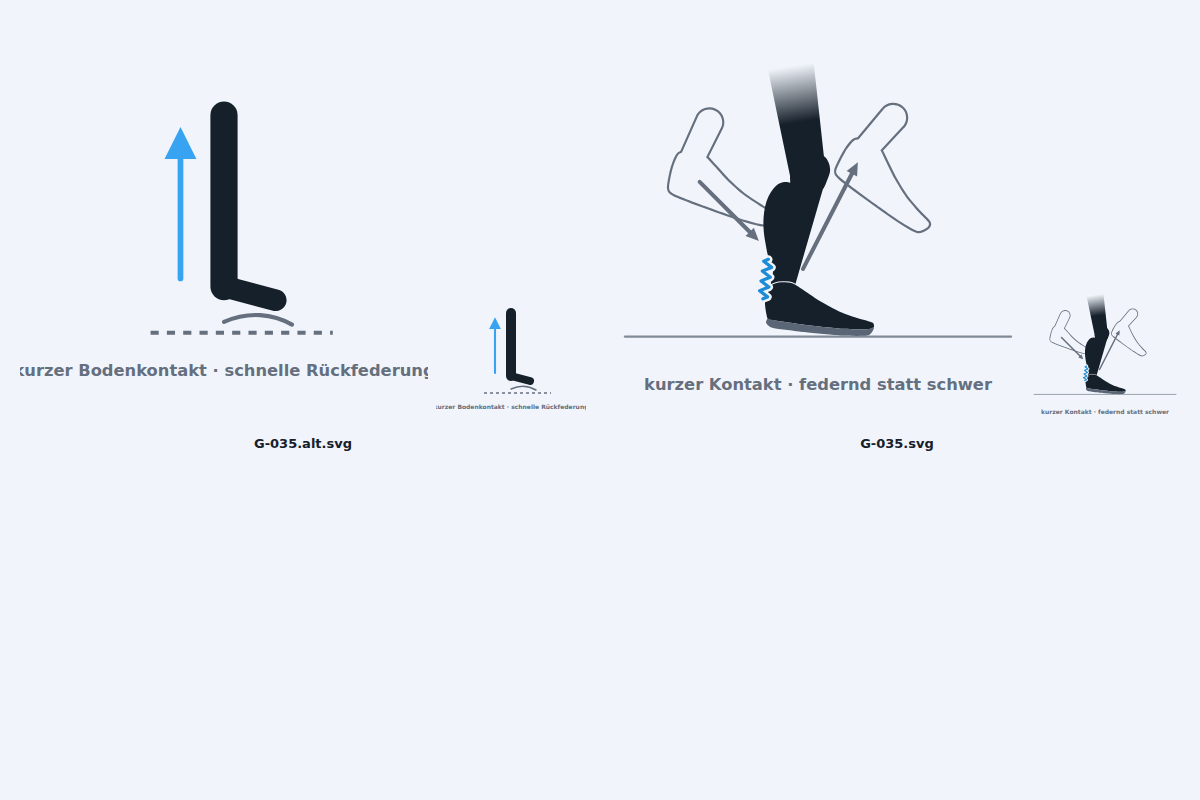
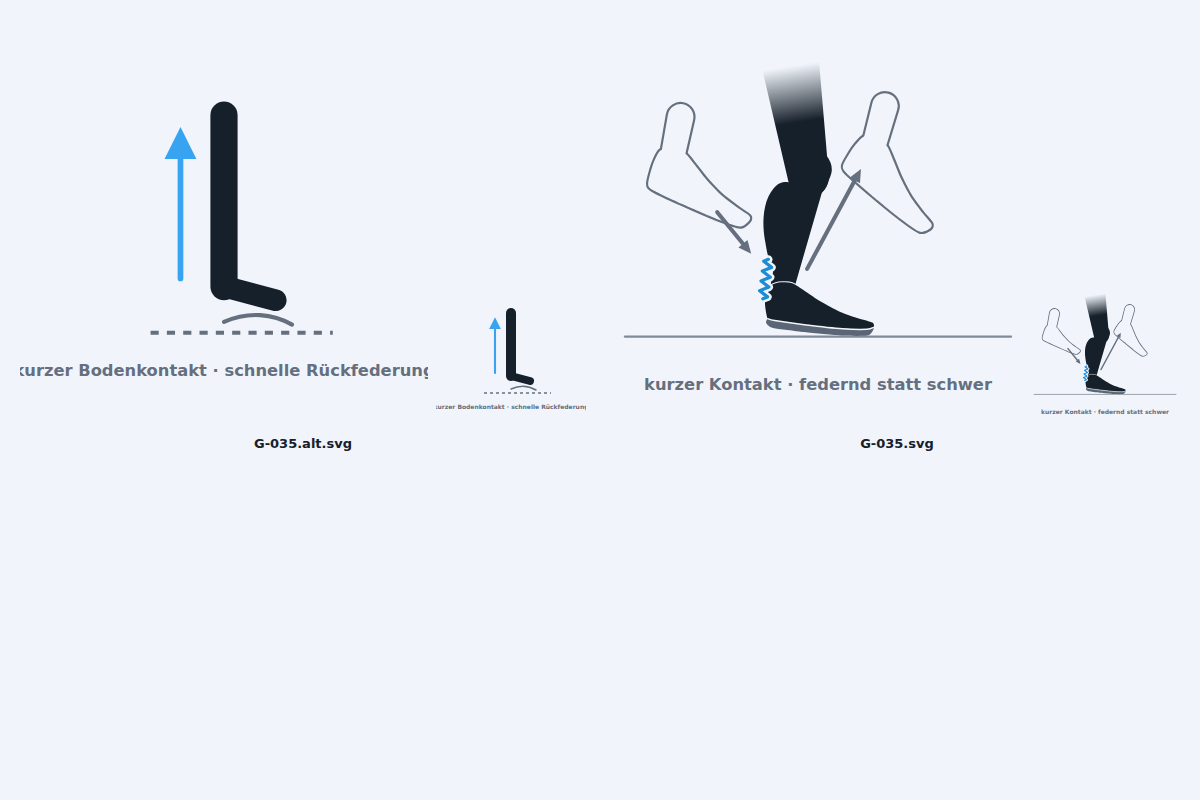
Welle 8: Prüfbefunde zu G-035 umgesetzt
- Umrissfüße im Sprunggelenk gestreckt statt starr gedreht (Anflug 103°,
  Abflug 115° gegen 83° im Kontakt), damit der Abdruck zu sehen ist.
- Anflug-Umriss frei vor der Wade, Pfeile beginnen und enden frei.
- Naht über der Sohle (s-naht): Sohle gegen Schuh kam mit keinem Token
  auf 3:1.
- Oberschenkel und Kniekappe kräftiger; pl-aria „w zarysie“ wie G-034/
  G-036, aria nennt die gestreckte Fußspitze.

Claude-Session: https://claude.ai/code/session_013KNt9ps5BEZjHZh3HU8knw

diff --git a/docs/grafik-strategie.md b/docs/grafik-strategie.md
@@ -357,6 +357,10 @@ Die übrigen 35 Grafiken bleiben bei ihren bisherigen Wegen. Ihre fr- und pl-Zwi
    - Texte: en mit finitem Verb, „a cap with a brim“ wie im Bestand, fr-Caption mit „tôt“.
 
    **Welle 8** (Nahaufnahme: G-035), Bögen in `docs/grafik-strategie/welle8-hell.png` und `welle8-dunkel.png`. G-001 und G-009 kamen fertig aus dem Pilot, offen war nur das Bein. Es entsteht wie die Hand ohne `figur()` in einem eigenen Modul (`scratchpad/figuren/bein.mjs`): streng seitlich, Oberschenkel bis Zehen, im tiefsten Punkt des Kontakts. Knie rund 23° gebeugt, Schienbein 13° nach vorn, der Schuh nur mit dem Vorfuß auf der Linie, die Ferse eine Fingerbreite darüber; Sohle (`s-sohle`) und Obermaterial getrennt, damit die Sohle als Fläche auf der Linie liegt. Die Achillessehne trägt die Aussage „Sehnen wirken wie Federn“ und ist als Zickzack im Akzent gezeichnet, mit einem Rand in `--flaeche-2` (`s-sehnex`), damit sie sich auch über dem dunklen Bein abhebt. Anflug und Abflug stehen als Umrissfüße (`s-konturu`/`s-konturf`, dasselbe Verfahren wie `geist: 'kontur'`: alle Teile dick gestrichen, darüber gefüllt), der Anflug mit den Zehen nach unten, weil der Kontakt am Vorfuß beginnt. Die Bahn ist ein enges V aus zwei Pfeilen; der alte Druckbogen und der abgelöste senkrechte Pfeil sind entfallen. Kein Kasten, keine Hürde, kein Tiefsprung (Gesundheitsrahmen). Damit sind alle 32 Personengrafiken generiert.
+   - **Ein Umrissfuß, der starr gedreht wird, ist nicht gestreckt.** Die erste Fassung drehte Schuh und Schaftstummel um denselben Winkel; das Sprunggelenk stand in allen drei Phasen bei rund 85°, gekippt war nur der Unterschenkel, und der Abflug wirkte nach vorn geschwungen statt abgedrückt. `geistFuss(d, w, wSchaft)` dreht den Schaft jetzt getrennt: Kontakt 83°, Anflug 103°, Abflug 115°, so ist die Rückgabe der Energie als Streckung zu sehen.
+   - Der Anflug-Umriss steckte mit der Zehe rund 8 Einheiten hinter der Wade und wirkte in der Miniatur angewachsen; er liegt weiter links. Beide Pfeile beginnen und enden jetzt frei, der Anflugpfeil auf der Linie Geistknöchel → Kontaktknöchel.
+   - **Sohle gegen Schuh kommt mit keinem Token auf 3:1** (`--tinte-2` gegen `--tinte` hell 2,82:1, dunkel 1,85:1). Eine Naht in `--flaeche-2` (`s-naht`) nur über der Oberkante der Sohle trennt beide; unten keine, sonst schwebte der Ballen über der Linie.
+   - Oberschenkel und Kniekappe kräftiger (der Oberschenkel war schmaler als die Wade und wirkte wie ein Stab); pl-aria „w zarysie“ wie bei G-034/G-036, die aria nennt die gestreckte Fußspitze.
 
    **Wenn der Pilot nicht überzeugt,** gibt es höchstens eine Nachbesserungsrunde. Danach entscheidet die Projektverantwortliche zwischen drei Wegen:
    - Richtung C an denselben neun Motiven, Generator und Gate bleiben dabei nutzbar;

diff --git a/images/grafik-prompts.md b/images/grafik-prompts.md
@@ -199,7 +199,7 @@ A single player pushing off explosively from a low loaded stance toward one corn
 **G-035** · `images/G-035.png` · `reaktivkraft_bodenkontakt` · Experte  
 *Leitgrafik: Reaktivkraft — der schnelle Bodenkontakt*  
 Close-up side view of a player's foot and lower leg at a short, springy ground contact — minimal contact time shown by a small compression arc and a quick rebound arrow, illustrating reactive strength and a stiff, elastic bounce.
-*Generiert (Welle 8): Nahaufnahme ohne Ganzkörper-Figur (`scratchpad/figuren/bein.mjs`, wie die Hand in `hand.mjs`), streng seitlich, das Bein von der Oberschenkelmitte bis zu den Zehen, der Oberschenkel blendet nach oben aus. Gezeigt ist der tiefste Punkt des Kontakts: Knie leicht gebeugt, Schienbein nach vorn geneigt, der Schuh steht nur mit dem Vorfuß auf der durchgezogenen Bodenlinie, die Ferse schwebt eine Fingerbreite darüber. Die Achillessehne ist als Feder im Akzent gezeichnet. Zwei Umrissfüße zeigen Anflug (links oben, Zehen nach unten zur Vorfußlandung) und Abflug (rechts oben, stärker gestreckt), die zwei Pfeile dazwischen bilden ein enges V. Der alte Fuß berührte den Boden nicht, das Bein war ein „L“, die Caption abgeschnitten. Kein Sprungkasten, keine Hürde, kein Tiefsprung (Gesundheitsrahmen). Caption: „kurzer Kontakt · federnd statt schwer“.*
+*Generiert (Welle 8): Nahaufnahme ohne Ganzkörper-Figur (`scratchpad/figuren/bein.mjs`, wie die Hand in `hand.mjs`), streng seitlich, das Bein von der Oberschenkelmitte bis zu den Zehen, der Oberschenkel blendet nach oben aus. Gezeigt ist der tiefste Punkt des Kontakts: Knie leicht gebeugt, Schienbein nach vorn geneigt, der Schuh steht nur mit dem Vorfuß auf der durchgezogenen Bodenlinie, die Ferse schwebt eine Fingerbreite darüber; eine helle Naht trennt die Sohle vom Schuh. Die Achillessehne ist als Feder im Akzent gezeichnet. Zwei Umrissfüße zeigen Anflug (links oben, im Sprunggelenk gestreckt, Zehen nach unten zur Vorfußlandung) und Abflug (rechts oben, nach dem Abdruck noch stärker gestreckt), die zwei Pfeile dazwischen bilden ein enges V. Der alte Fuß berührte den Boden nicht, das Bein war ein „L“, die Caption abgeschnitten. Kein Sprungkasten, keine Hürde, kein Tiefsprung (Gesundheitsrahmen). Caption: „kurzer Kontakt · federnd statt schwer“.*
 
 **G-036** · `images/G-036.png` · `bewegungsoekonomie` · Experte  
 *Leitgrafik: Bewegungsökonomie — effizient statt hektisch*  
